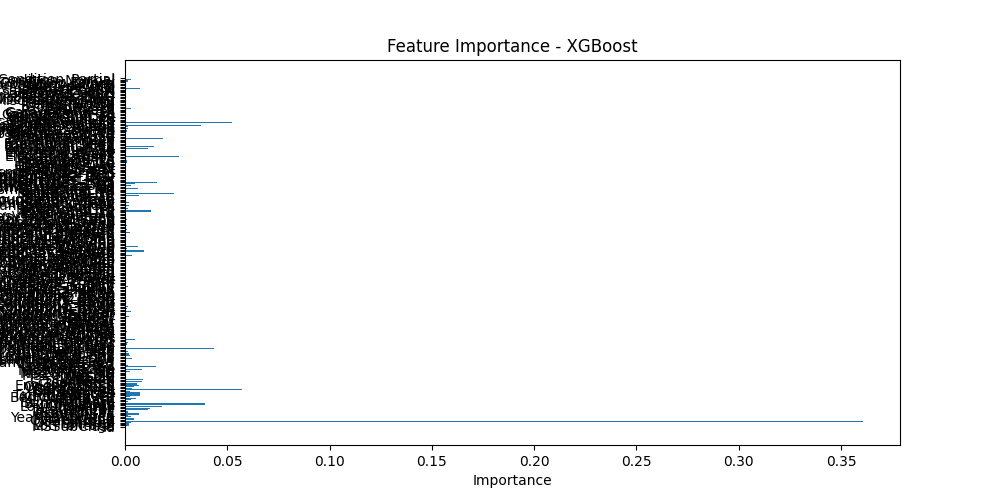
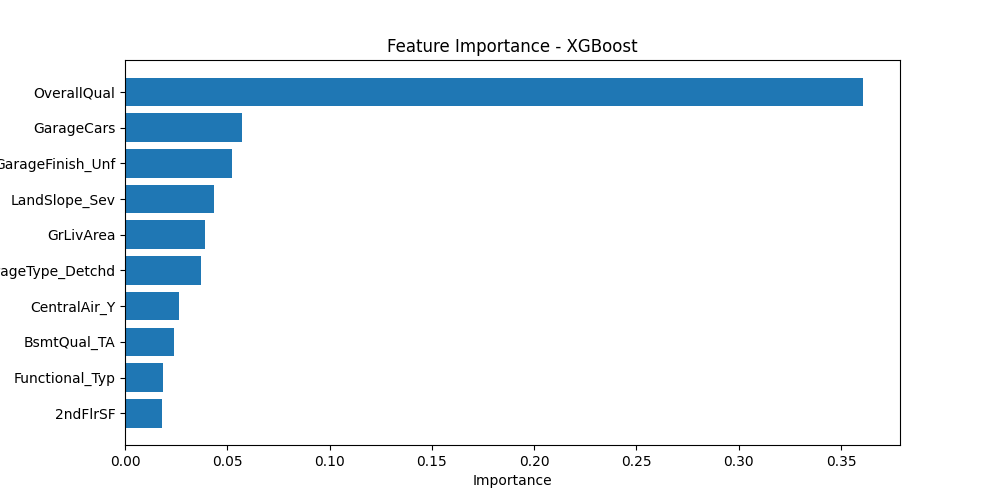
Reduce number of feature importance cols in plots

Changed region(s): [[0.0, 0.15, 0.868, 0.87]]

diff --git a/kaggle_house_prices/initial_analysis.py b/kaggle_house_prices/initial_analysis.py
@@ -5,6 +5,8 @@ from xgboost import XGBRegressor
 import matplotlib.pyplot as plt
 import seaborn as sns
 from sklearn.metrics import mean_squared_error, r2_score
+import numpy as np
+import matplotlib.pyplot as plt
 
 def load_data(train_file, test_file):
     """Load the training and testing data from CSV files."""
@@ -60,22 +62,41 @@ def run_models(X_train, y_train, X_valid, y_valid):
 
     return model_rf, model_xgb
 
+
 def plot_feature_importance(model_rf, model_xgb, feature_names):
-    """Plot the feature importance from both models."""
+    """Plot the feature importance from both models, showing only the top 10 features."""
+    
+    # Get feature importances
     rf_importances = model_rf.feature_importances_
     xgb_importances = model_xgb.feature_importances_
 
+    # Get the indices of the top 10 features or top 30% features
+
+    rf_features_plot = -1 * min(10, len(rf_importances))
+    xgb_features_plot  = -1 * min(10, len(xgb_importances))
+
+    rf_indices = np.argsort(rf_importances)[rf_features_plot :]
+    xgb_indices = np.argsort(xgb_importances)[xgb_features_plot:]
+
+    # Get the top 10 feature names and importances for Random Forest
+    rf_top_features = [feature_names[i] for i in rf_indices]
+    rf_top_importances = rf_importances[rf_indices]
+
     # Plot feature importances for Random Forest
     plt.figure(figsize=(10, 5))
-    plt.barh(feature_names, rf_importances)
+    plt.barh(rf_top_features, rf_top_importances)
     plt.title('Feature Importance - Random Forest')
     plt.xlabel('Importance')
     plt.savefig('feature_importance_rf.png')  # Save the figure instead of showing
     plt.close()  # Close the figure
 
+    # Get the top 10 feature names and importances for XGBoost
+    xgb_top_features = [feature_names[i] for i in xgb_indices]
+    xgb_top_importances = xgb_importances[xgb_indices]
+
     # Plot feature importances for XGBoost
     plt.figure(figsize=(10, 5))
-    plt.barh(feature_names, xgb_importances)
+    plt.barh(xgb_top_features, xgb_top_importances)
     plt.title('Feature Importance - XGBoost')
     plt.xlabel('Importance')
     plt.savefig('feature_importance_xgb.png')  # Save the figure instead of showing
